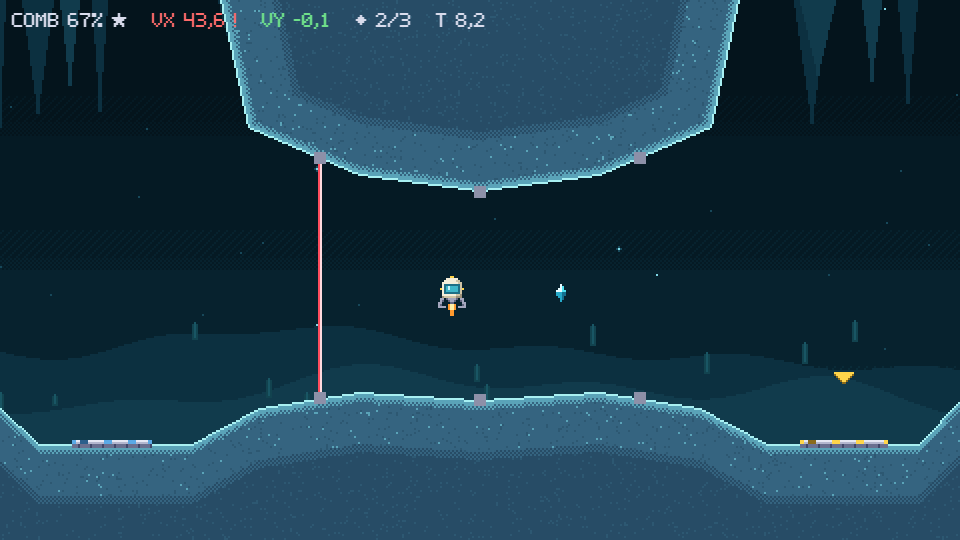
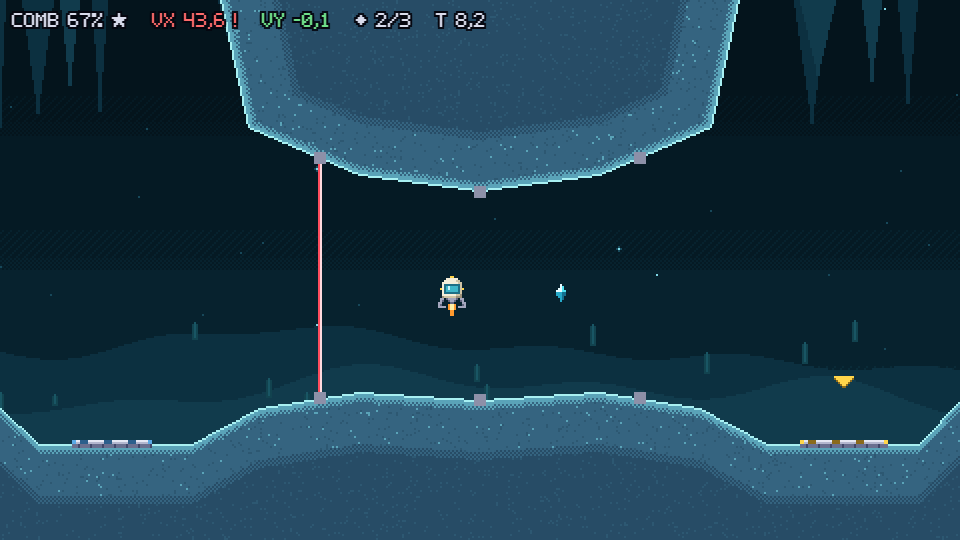
Contorno escuro no HUD, para ler sobre o teto das cavernas

diff --git a/src/style.css b/src/style.css
@@ -16,6 +16,12 @@ body { display: flex; overflow: hidden; background: #05060f; color: #d9dcec; fon
 .hud {
   position: absolute; inset: 0 0 auto; display: flex; flex-wrap: wrap;
   gap: 0 calc(var(--fp) * 12); padding: calc(var(--px) * 3) calc(var(--px) * 6); pointer-events: none;
+  /* Contorno escuro de um pixel da fonte, para ler também sobre o teto das cavernas. */
+  --o: var(--fp);
+  --n: calc(var(--fp) * -1);
+  text-shadow:
+    var(--o) 0 #05060f, var(--n) 0 #05060f, 0 var(--o) #05060f, 0 var(--n) #05060f,
+    var(--o) var(--o) #05060f, var(--n) var(--o) #05060f, var(--o) var(--n) #05060f, var(--n) var(--n) #05060f;
 }
 .ok { color: #6fe08a; }
 .bad { color: #ff6b6b; }
